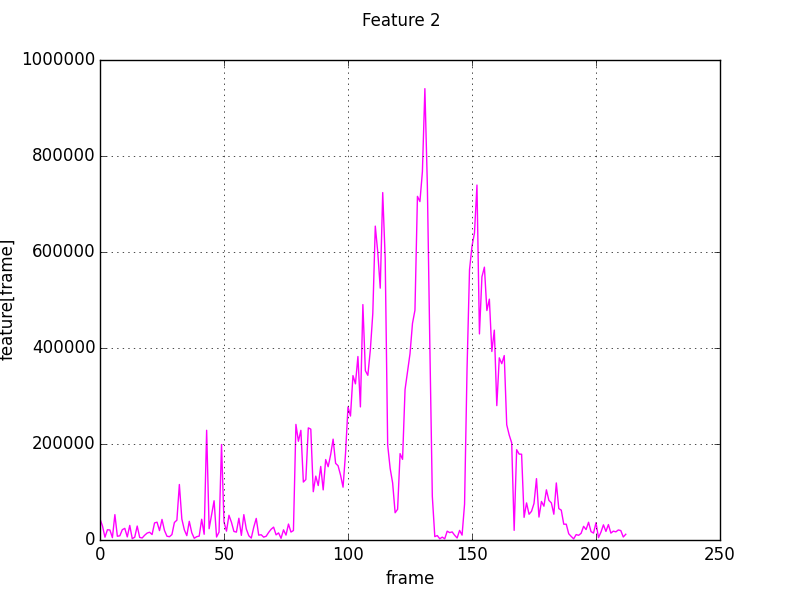
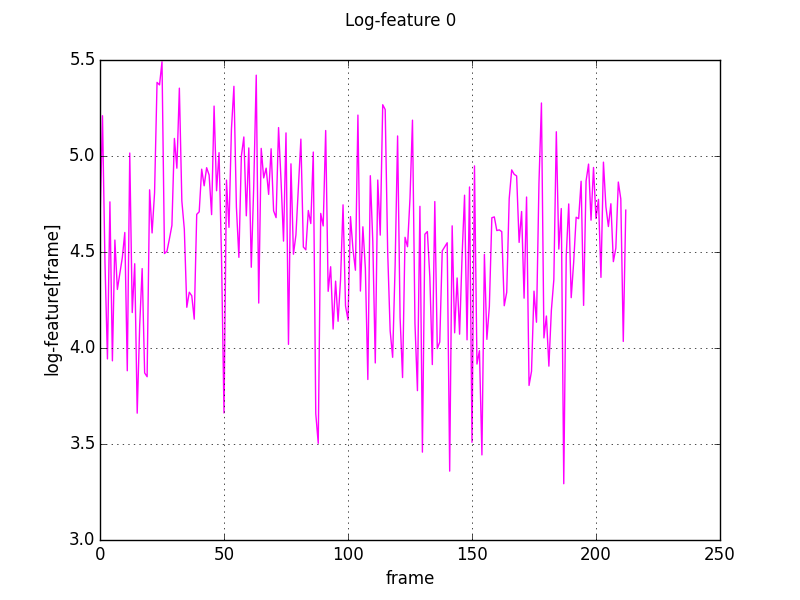
Finalizando testes do modulo 'features', com trocentas figuras e draft report atualizado.

diff --git a/src/features.py b/src/features.py
@@ -95,8 +95,8 @@ def filtersignal(signal, winlen=0.02, winstep=0.01, samplerate=16000, nfilt=26,
     presignal = sigproc.preemphasis(signal, preemph)
     framedsignal = sigproc.framesignal(presignal, winlen*samplerate, winstep*samplerate)
     powframedsignal = sigproc.powspec(framedsignal, NFFT)
-
     fbank = filterbank(samplerate, nfilt, NFFT)
+
     feats = np.dot(powframedsignal, fbank.T)       # feats[n] = np.dot(powframedsignal, fbank[n])
     energy = np.sum(powframedsignal, 1)            # this stores the total energy in each frame
 
@@ -156,15 +156,17 @@ def mfcc(signal, winlen, winstep, samplerate=16000, numcep=13, nfilt=26, NFFT=51
     (feats, energy) = filtersignal(signal, winlen, winstep, samplerate, nfilt,
                                    NFFT, preemph)
     logfeats = np.log10(feats)
-    logfeats = dct(logfeats, type=2, axis=1, norm='ortho')[ : , : numcep]
-    liflogfeats = lifter(logfeats, ceplifter)
+    dctlogfeats = dct(logfeats, type=2, axis=1, norm='ortho')[ : , : numcep]
+    liflogfeats = lifter(dctlogfeats, ceplifter)
+
+    #CMS = Cepstral Mean Subtraction
+    #liflogfeats = np.array([liflogfeat - np.mean(liflogfeat) for liflogfeat in liflogfeats])
+
     if appendEnergy:
         # replace first cepstral coefficient with log of frame energy
         liflogfeats[ : , 0] = np.log(energy)
 
     liflogfeats = liflogfeats.transpose()
-    #CMS = Cepstral Mean Subtraction
-    #liflogfeats = np.array([feat - np.mean(feat) for feat in liflogfeats])
     return liflogfeats
 
 #TODO efetuar Cepstral Mean Subtraction (CMS) antes de calcular os deltas
@@ -319,28 +321,26 @@ if __name__ == '__main__':
     numframes = len(energy)
     frameindices = np.linspace(0, numframes, numframes, False)
 
-    print(feats.shape, energy.shape)
-    for (feat, n) in zip(feats.T, range(numframes)):
+    ###figure006
+    filecounter = plotfile(frameindices, energy, 'Total energy per frame', 'frame',
+                           'energy[frame]', filename, filecounter, 'red', True)
+
+    for (feat, n) in zip(feats.T, range(nfilt)):
         filecounter = plotfile(frameindices, feat, 'Feature %d' % n, 'frame',
                                'feature[frame]', filename, filecounter, 'magenta')
+        logfeat = np.log10(feat)
+        filecounter = plotfile(frameindices, logfeat, 'Log-feature %d' % n, 'frame',
+                               'log-feature[frame]', filename, filecounter, 'magenta')
 
-#    featsfull = np.zeros(numframes)
-#    for (feat, n) in zip(feats.T, range(numframes)):
-#        featsfull = np.maximum(featsfull, feat)
-#        logfeat = np.log10(feat)
-#        plotfile(frameindices, feat, 'Feature %d' % n, 'frame', 'feature[frame]')
-#            plotfile(frameindices, logfeat, xlabel='frames', ylabel='log(feature[frame])',
-#                     suptitle='Log-feature %d' % n)
+    numcep = 13
+    ceplifter = 22
+    num_deltas = 2
 
-    #    if args == []:
-    #        plotfile(frameindices, featsfull, xlabel='frames', ylabel='max(feature[frame])',
-    #                 suptitle='Maximum feature value per frame')
-    #
-    #    #Energy per frame
-    #    plotfile(frameindices, energy, xlabel='frames', ylabel='energy[frame]',
-    #             suptitle='Energy per frame')
-    #    plotfile(frameindices, np.log10(energy), xlabel='frames', ylabel='log(energy[frame])',
-    #             suptitle='Log-energy per frame')
-    #
-    #elif option == 'mfcc':
-    #    pass
+    #Calculatin the MFCC (similar to everything done until now, but with more!)
+    mfccs = mfcc_delta(signal, winlen, winstep, samplerate, numcep, nfilt, NFFT,
+                       num_deltas=num_deltas)
+    print(mfccs.shape)
+    numcoeffs = numcep*(num_deltas + 1)
+    for (feat, n) in zip(mfccs, range(numcoeffs)):
+        filecounter = plotfile(frameindices, feat, 'MFCC[%d]' % n, 'frame',
+                               'mfcc[%d][frame]' % n, filename, filecounter, 'black')

diff --git a/docs/paper/draft-report.md b/docs/paper/draft-report.md
@@ -21,3 +21,11 @@ Explicar os passos da extração dos MFCCs.
 4. Mostrar a escala Mel, imagens "*features/figure{000,001}.png*", e o banco de filtros em escala MEL, representado pela imagem "*features/figure002.png*". Embora seja em escala MEL, a imagem mostra os filtros na escala Hertz. Na escala MEL todos os filtros tem o mesmo comprimento (que na escala Hertz crescem com a frequência). Explicar sobre o funcionamento da Cóclea no ouvido humano e como este banco de filtros simula sua funcionalidade (talvez colocar isso na seção anterior).
 
 5. Mostrar como o espectro de **potência** do sinal com pré-ênfase (imagem "*sigproc/figure005.png*") fica após passar pelo banco de filtros #20 (imagem "*features/figure003.png*"). O resultado é a imagem "*features/figure004.png*". Fazer o mesmo para todo o filtro (imagem "*features/figure002.png*"), com resultado na imagem "*features/figure005.png*" (parecida com a imagem do espectro de **potência** original).
+
+6. Após, mostrar o sinal pré-enfatizado ser janelado (com **Hamming**) e ter o espectro de **potência** de cada frame calculado (imagens "*sigproc/figure{008,011,...}.png*"), os powered frames passam pelo banco de filtros (anteriormente era o sinal completo, agora é cada power frame em separado). Os power frames ficam organizados numa matriz, que é multiplicada pela matriz do banco de filtros. Daí surgem as features (cujo número é o mesmo do número de filtros do banco), cada uma com valores diferentes a cada frame.
+
+7. Cada powered frame contém floor(NFFT/2 + 1) valores de energia. Estes valores são somados e temos a energia total por frame.
+
+8. No final a função de extração dos MFCCs é executada, similar a tudo que foi feito antes, mas com **DCT** e um **lifter** de tamanho L = 22(e um CMS opcional). O tamanho da matriz é numcoeff x numframes (geralmente 13 x numframes). Estão indicadas nas figuras (pelo título "MFCC[<frame>]"). As imagens estão plotadas na cor magenta.
+
+9. Após extrair os MFCCs, podem ser calculados os deltas de 1ª e 2ª ordem (imagens com curva preta).
